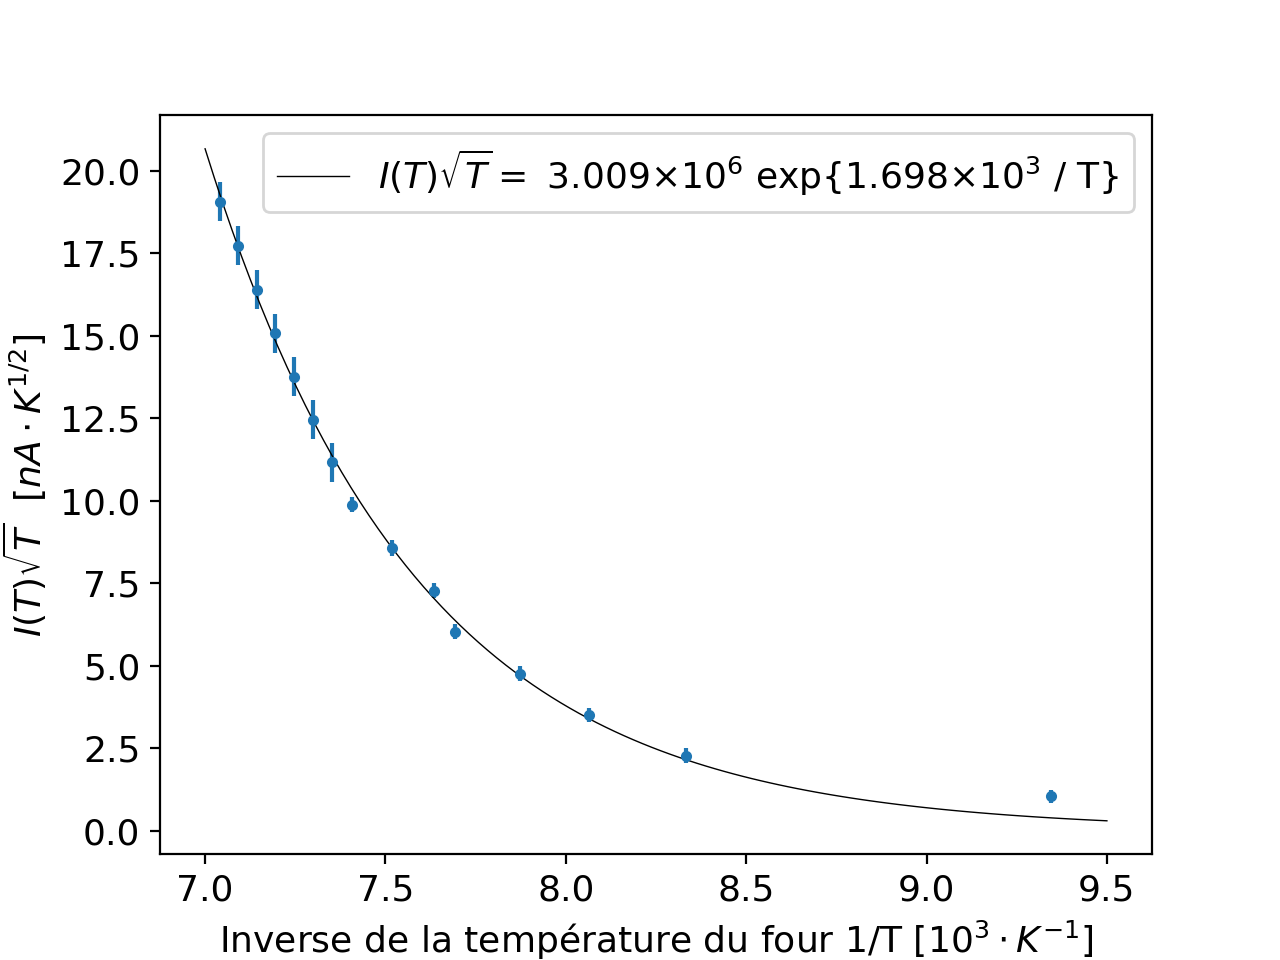
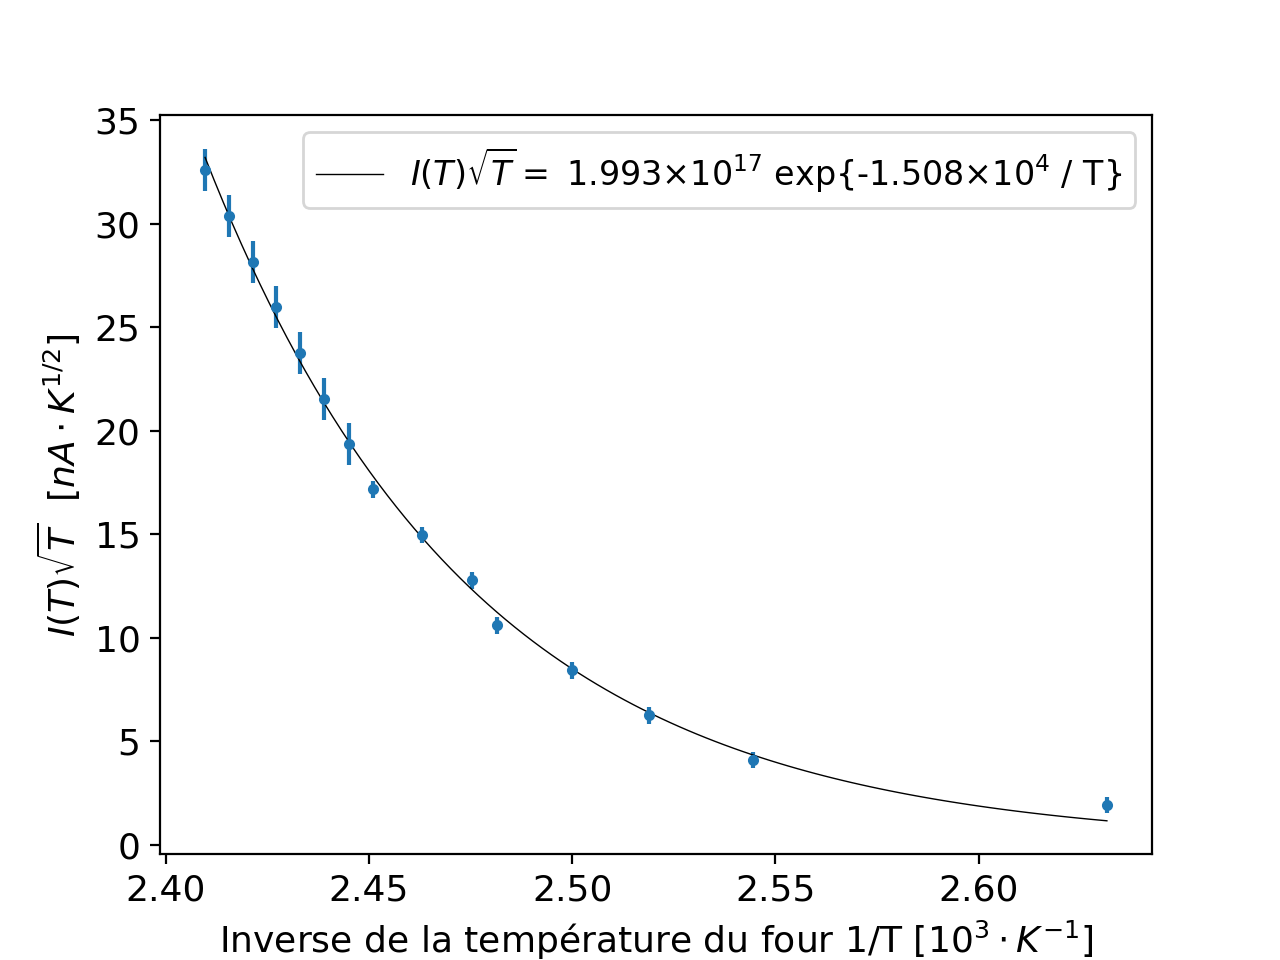
Finission loi de langmuir

diff --git a/Langmuir.py b/Langmuir.py
@@ -3,31 +3,36 @@ import matplotlib.pyplot as plt
 from scipy.optimize import curve_fit
 import matplotlib.ticker as mticker
 
-
+I = np.linspace(0.1, 1.6, 15)
+Ierr = np.array([0.02]*8 + [0.05]*7)
+T = np.array([380, 393, 397, 400, 403, 404, 406, 408, 409, 410, 411, 412, 413, 414, 415])
+y = I*np.sqrt(T)
+y_err = Ierr*np.sqrt(T)
+x1 = 1/T
+################################################################
 
 f = mticker.ScalarFormatter(useOffset=False, useMathText=True)
 g = lambda x,pos : "${}$".format(f._formatSciNotation('%.3e' % x))
 fmt = mticker.FuncFormatter(g)
-
-I = np.linspace(0.1, 1.6, 15)
-Ierr = np.array([0.02]*8 + [0.05]*7)
-T = np.array([107, 120, 124, 127, 130, 131, 133, 135, 136, 137, 138, 139, 140, 141, 142])
-y = I*np.sqrt(T)
-y_err = Ierr*np.sqrt(T)
-x1 = 1/T
+################################################################
 
 def exp(x, a, b):
     return a*np.e**(-b * x)
 
+popt, pcov = curve_fit(exp, x1, y, maxfev=1000)
+################################################################################
 
-popt, pcov = curve_fit(exp, x1, y)
-print(popt)
-plt.plot(1000*np.linspace(0.007, 0.0095, 100), exp(np.linspace(0.007, 0.0095, 100), *popt), linestyle='-',
-         color='black', linewidth=0.5, label=f"$I(T)\sqrt{{T}} =$ {fmt(popt[0])} exp{{{fmt(popt[1])} / T}}")
+plt.plot(1000*np.linspace(min(x1), max(x1), 100), exp(np.linspace(min(x1), max(x1), 100), *popt), linestyle='-',
+         color='black', linewidth=0.5, label=f"$I(T)\sqrt{{T}} =$ {fmt(popt[0])} exp{{-{fmt(popt[1])} / T}}")
 plt.errorbar(1000*x1, y, marker='.', yerr=y_err, ls='none')
 plt.xlabel("Inverse de la température du four 1/T $[10^3 \cdot K^{-1}]$", fontsize=13)
 plt.ylabel('$I(T)\sqrt{T}$  $[nA \cdot K^{1/2}]$', fontsize=13)
-plt.legend(fontsize=13)
+plt.legend(fontsize=12)
 plt.tick_params(labelsize=13)
 plt.savefig('figures/langmuir', dpi=200)
-plt.show()
+###############################################################################
+k_B = 86.174E-6
+phi = k_B*popt[1]
+print(f"La constante C est égale à {popt[0]:.3e}")
+print(f"La constante Lambda est égale à {popt[1]:.2f}")
+print(f"La constante phi est égale à {phi:.2f}")
